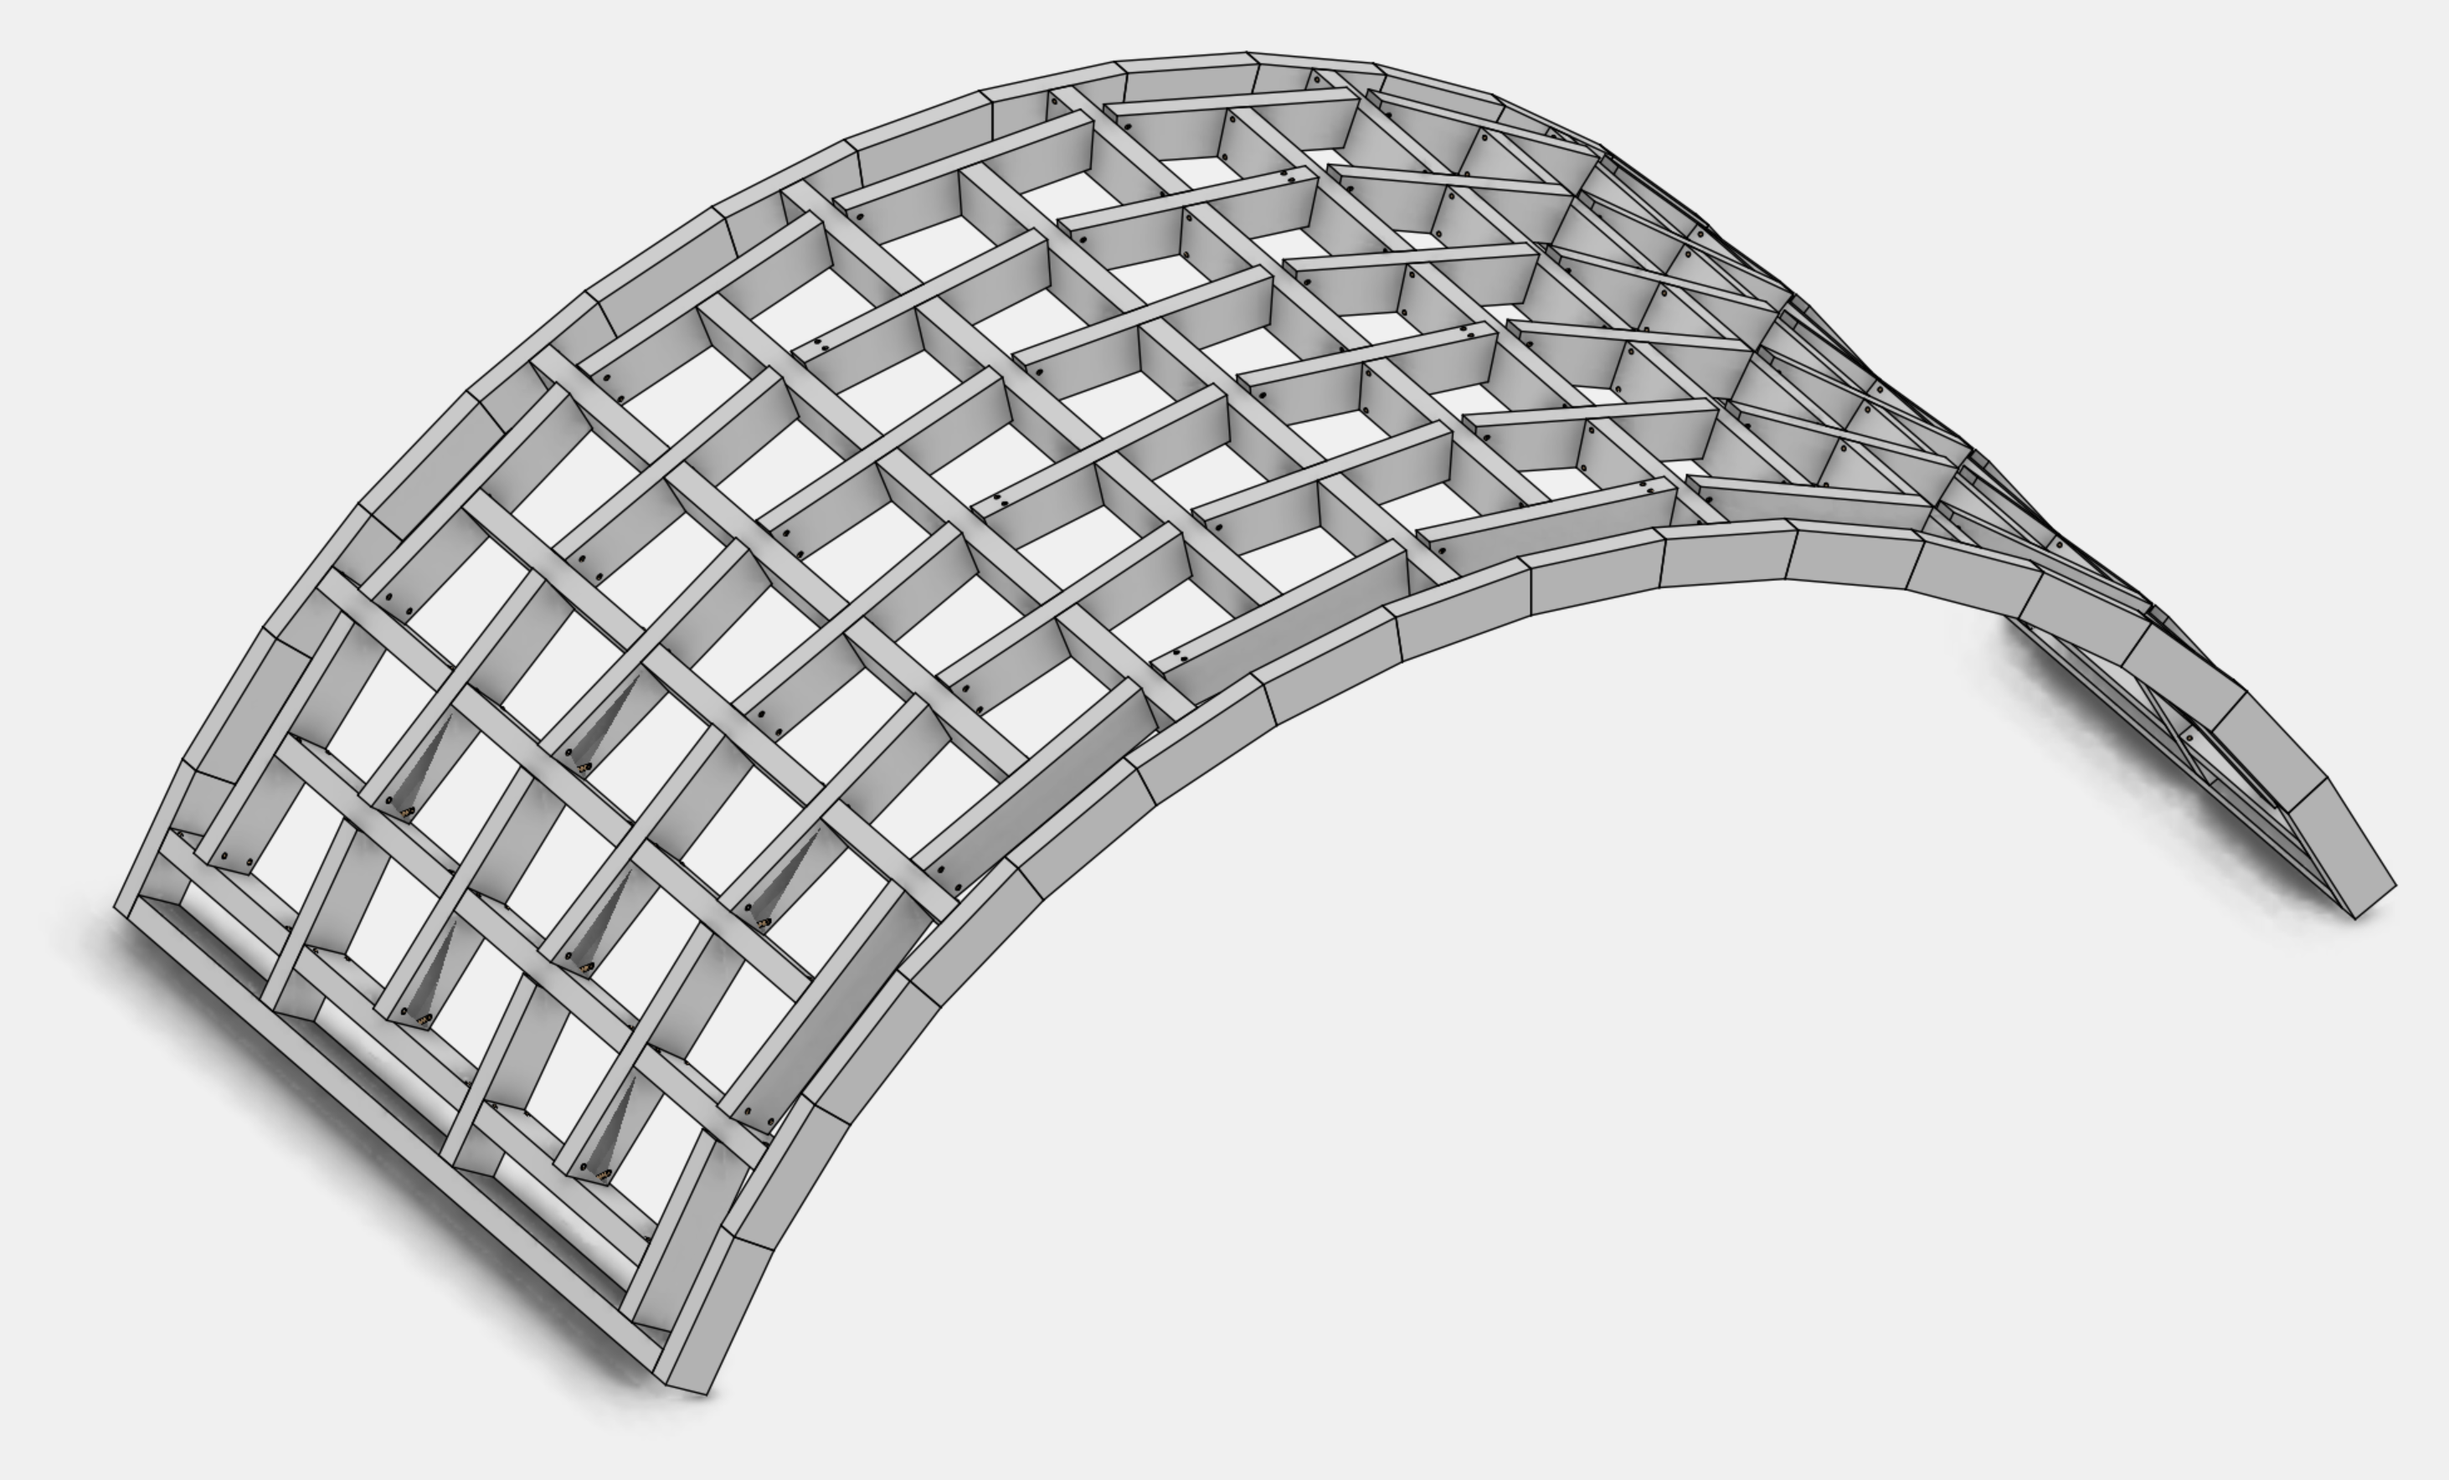
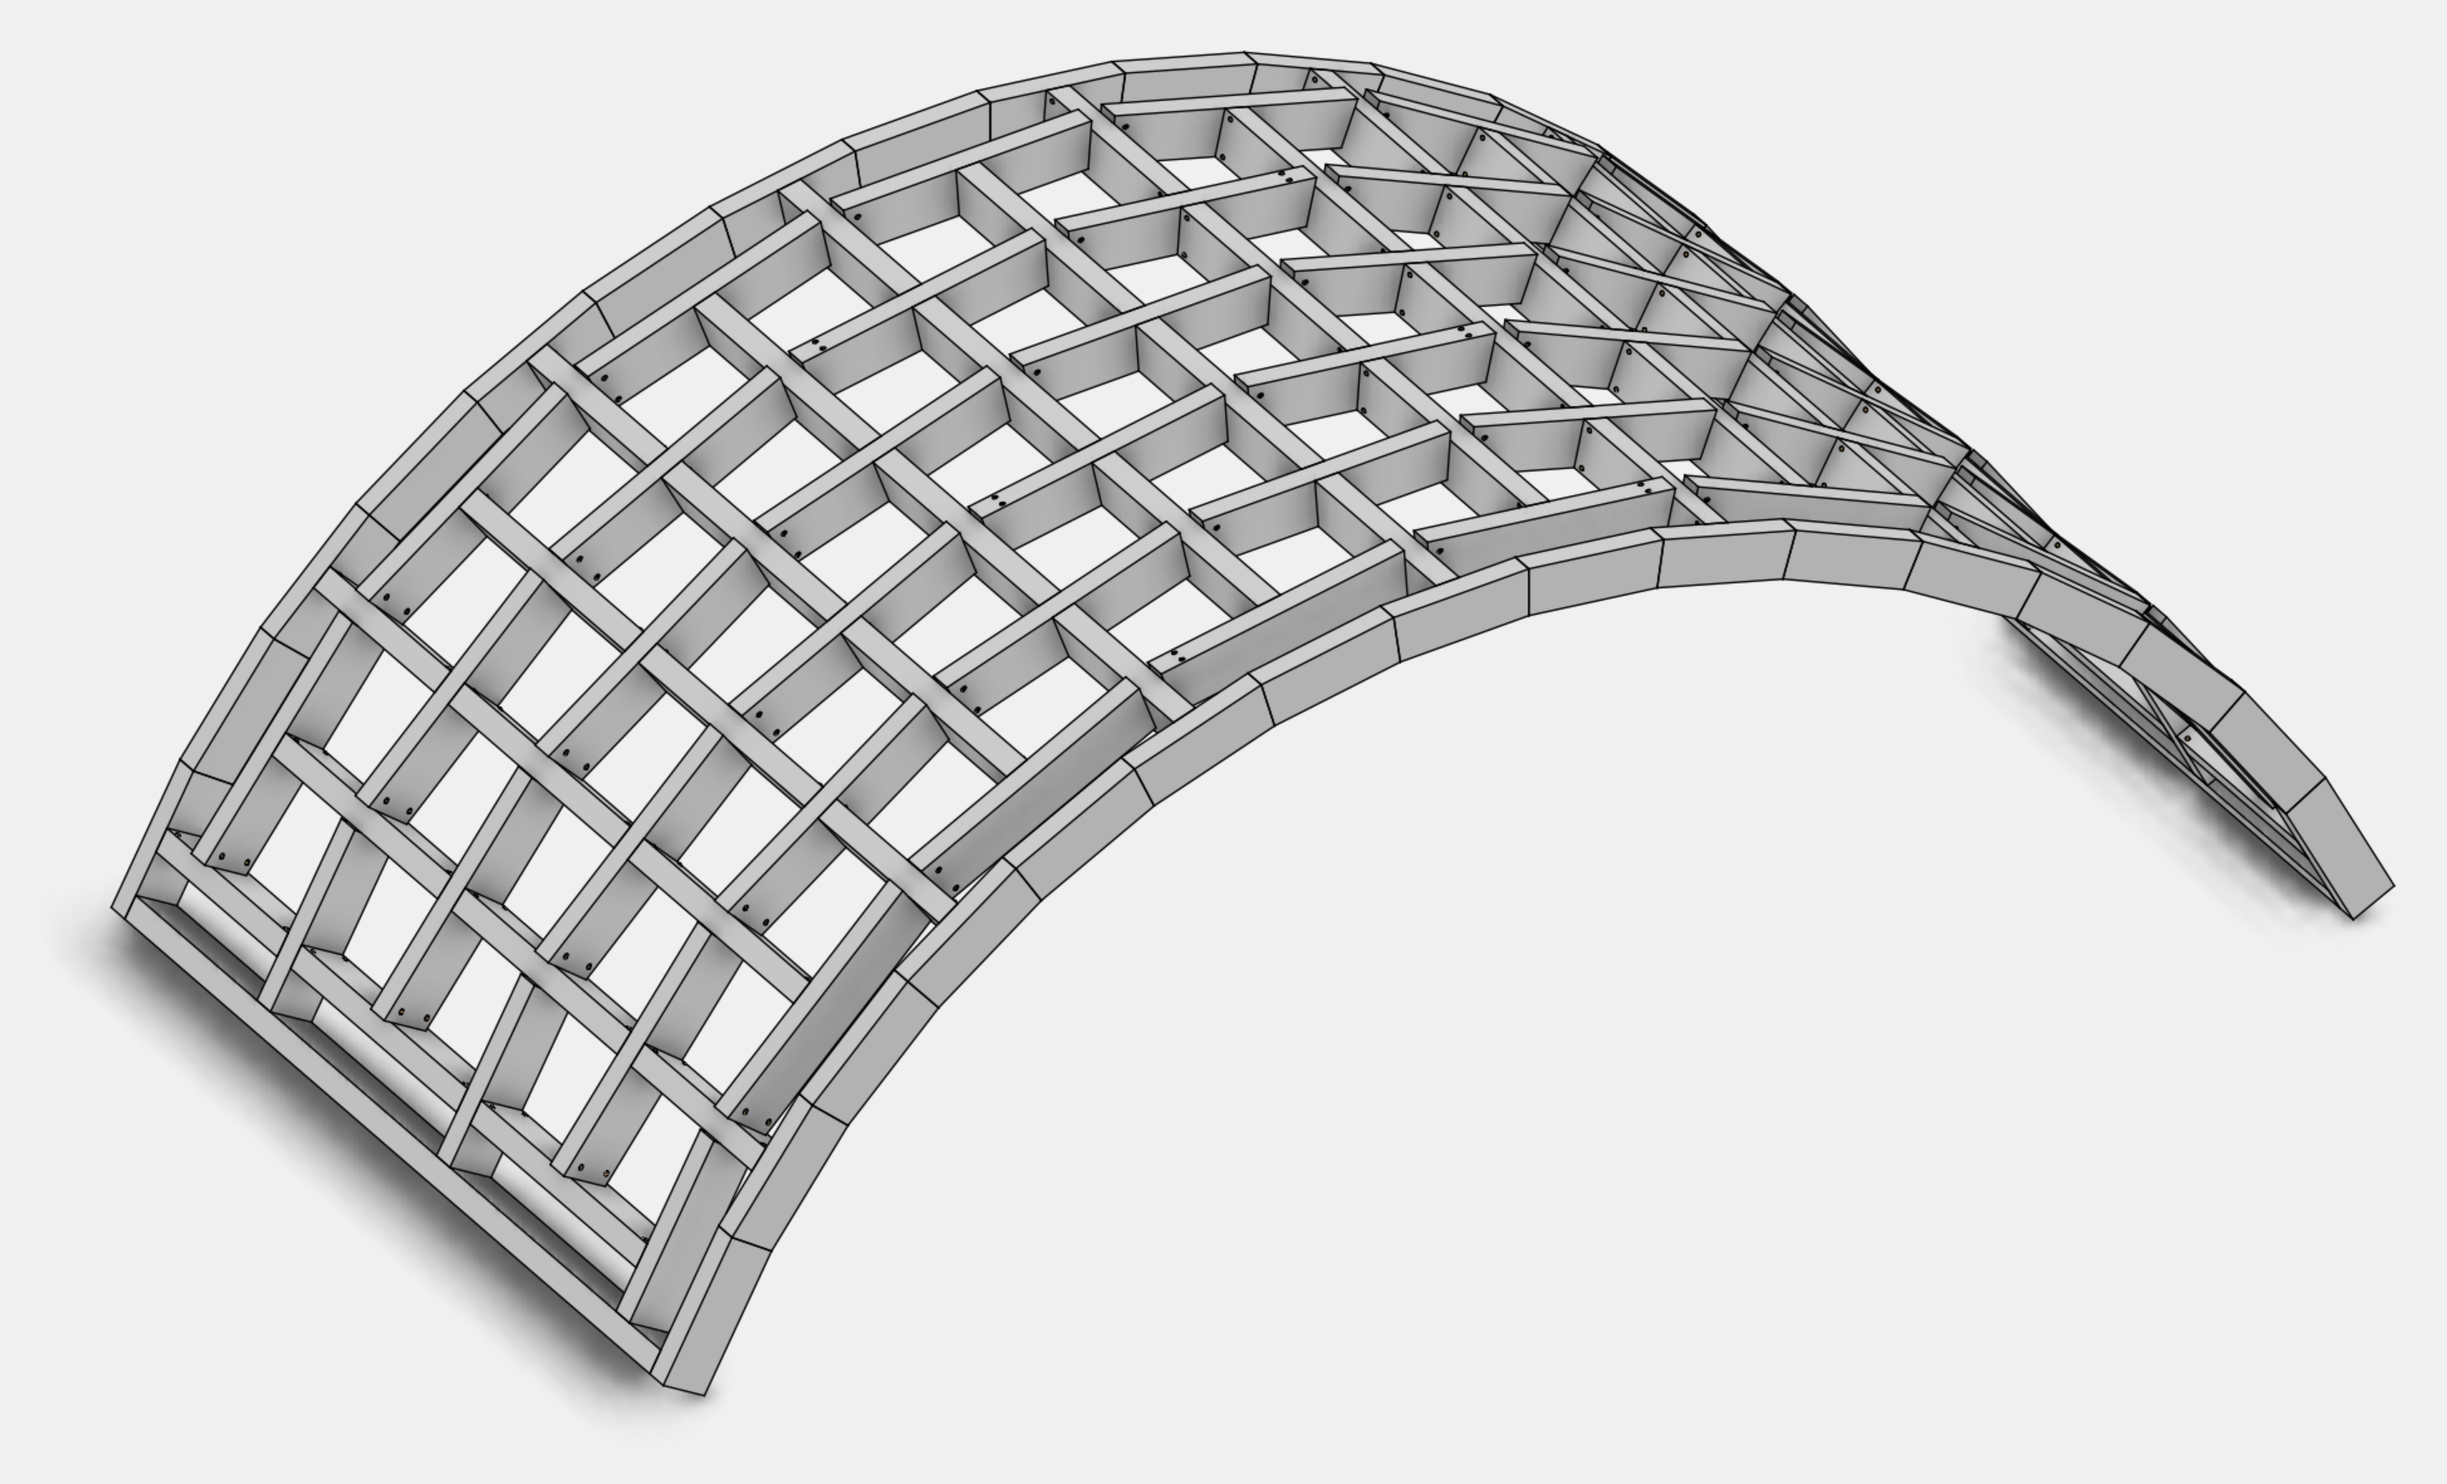
MAX2 chevron: the plates and the joints pictures redrawn with the fixed triangulation; the reciprocal arch's pins lean in through the cheek, as the page now says

diff --git a/src/templates/plaited/plaited.cpp b/src/templates/plaited/plaited.cpp
@@ -659,13 +659,13 @@ PlaitedReciprocal::PlaitedReciprocal(
     _beams = compute_beams();
     draw();
 
-    // T-butt contacts and leaning cylindrical pins, driven from the bars' tops
+    // T-butt contacts and leaning cylindrical pins, driven from the bars' cheeks
     if (this->with_contacts || this->pin_diameter > 0.0)
         compute_face_contacts(0);
     if (this->pin_diameter > 0.0)
         _pins = compute_pins();
 
-    // assembly: the frame, then the bars raised from the ground, then every joint's pins down through the bar's top
+    // assembly: the frame, then the bars raised from the ground, then every joint's pins in through the bar's cheek
     std::vector<AssemblyModule> whole = AssemblyModule::parts_of(_frame_beams);
     const std::vector<AssemblyModule> bars = AssemblyModule::parts_of(_beams);
     whole.insert(whole.end(), bars.begin(), bars.end());

diff --git a/tools/assembly_docs.py b/tools/assembly_docs.py
@@ -150,7 +150,7 @@ PAGES = {
     ),
     "plaited": (
         "The blocks interlock, so every one goes in along a direction of its own, leaning with its bevels, and some with a turn; the "
-        "reciprocal arch its frame and its bars, then every joint's two pins, leaning, down through the bar's top.",
+        "reciprocal arch its frame and its bars, then every joint's two pins, leaning in through the bar's cheek.",
         [
             ("templates_plaited_1_flat_floor", "Flat floor"),
             ("templates_plaited_2_arch", "Arch"),

diff --git a/docs/templates/plaited.md b/docs/templates/plaited.md
@@ -110,7 +110,7 @@ Passing `circular_rim = true` to `spherical_cap_hex_mesh` with `flat_base = true
 
 ## Pinned Leonardo Reciprocal Barrel Arch {#plaited_reciprocal_arch}
 
-`PlaitedReciprocal` turns each plaited cell axis into a straight timber bar enclosed by continuous straight springing sills and radially aligned arch ribs, cutting every bar end face-to-face against its crossing neighbours and boring exact cylindrical BRep pins (`pin_diameter > 0`) that lean through every bar's top into the cheek its end stands on (`JointBeamElement::skewed_pins`), driven once the bars stand.
+`PlaitedReciprocal` turns each plaited cell axis into a straight timber bar enclosed by continuous straight springing sills and radially aligned arch ribs, cutting every bar end face-to-face against its crossing neighbours and boring exact cylindrical BRep pins (`pin_diameter > 0`) that lean from every bar's cheek through its end into the bar it stands on (`JointBeamElement::skewed_pins`), driven once the bars stand.
 
 <div class="wood-pair-grid">
   <img src="templates_plaited_5_reciprocal_arch_arch_pinned.webp" alt="Finely subdivided pinned Leonardo reciprocal barrel arch">
@@ -122,7 +122,7 @@ Passing `circular_rim = true` to `spherical_cap_hex_mesh` with `flat_base = true
 <!-- assembly:begin -->
 ## Assembly Sequence {#plaited_assembly_sequence}
 
-The blocks interlock, so every one goes in along a direction of its own, leaning with its bevels, and some with a turn; the reciprocal arch its frame and its bars, then every joint's two pins, leaning, down through the bar's top. Every move is a `ModuleSequence` move: the module taken apart piece by piece, each piece swept as a solid against every piece still in, the moving ones drawn brown, a GIF per kind of module and one of the whole.
+The blocks interlock, so every one goes in along a direction of its own, leaning with its bevels, and some with a turn; the reciprocal arch its frame and its bars, then every joint's two pins, leaning in through the bar's cheek. Every move is a `ModuleSequence` move: the module taken apart piece by piece, each piece swept as a solid against every piece still in, the moving ones drawn brown, a GIF per kind of module and one of the whole.
 
 | assembly | | |
 |---|---|---|
